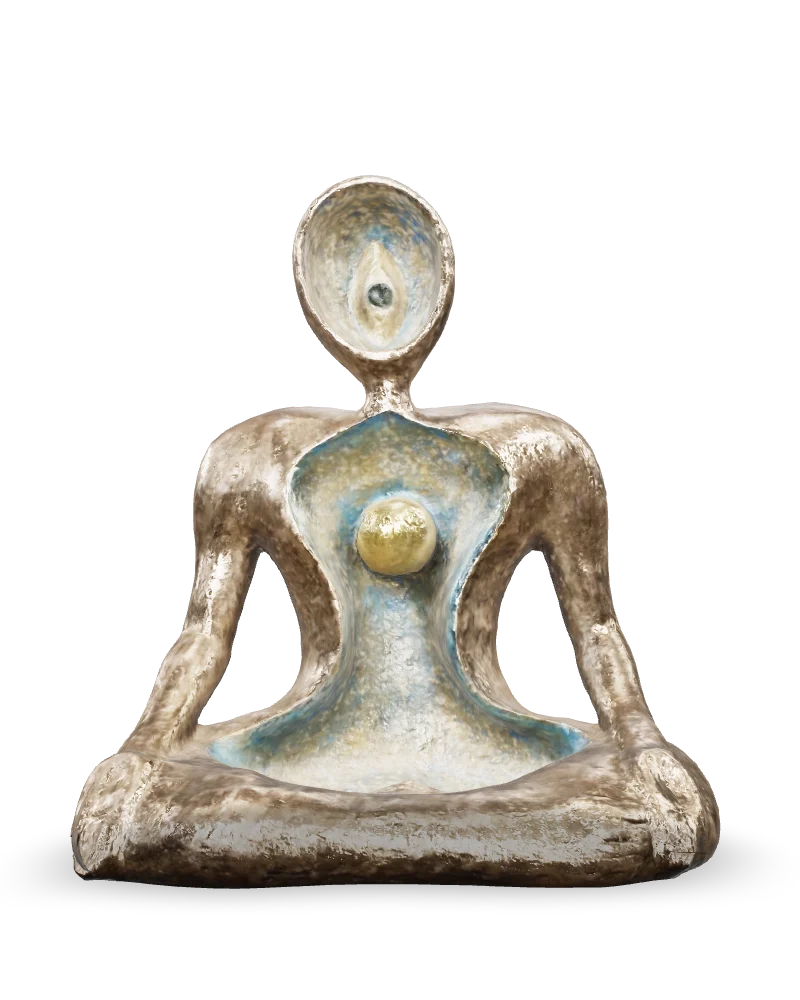
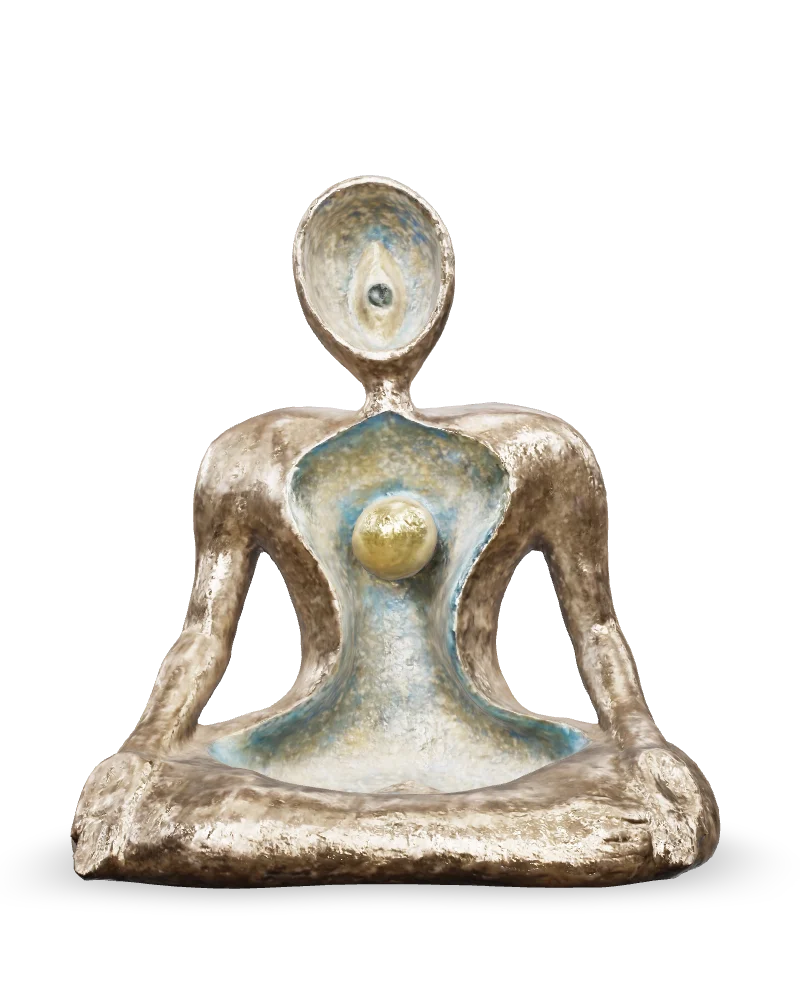
Meditating: render opaque instead of see-through
The USD import set the material to alpha BLEND and double-sided, though
the colour texture has no alpha. three.js then drew it as transparent
without depth writes, so back and inner faces showed through. Now OPAQUE
with backface culling (only 26 of 44k triangles have flipped winding).
Model, AR copy and thumbnail rebuilt; ?v=2 skips the day-long cache.

diff --git a/lib/sculptures.ts b/lib/sculptures.ts
@@ -235,7 +235,7 @@ export const sculptures: Sculpture[] = [
     description: "",
     artistSlug: "",
     thumbnail: "/thumbnails/meditating.webp",
-    modelUrl: "/sculptures/meditating.glb",
+    modelUrl: "/sculptures/meditating.glb?v=2",
     facing: 180,
     material: "",
     year: "",
